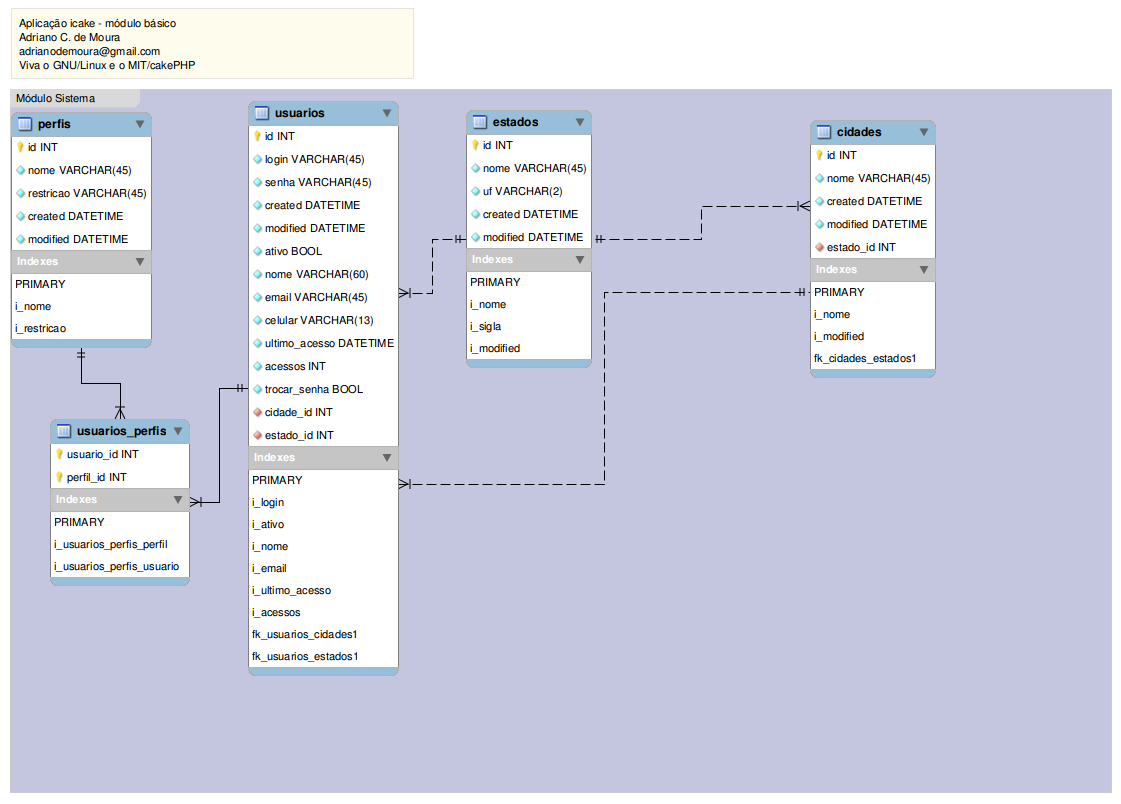
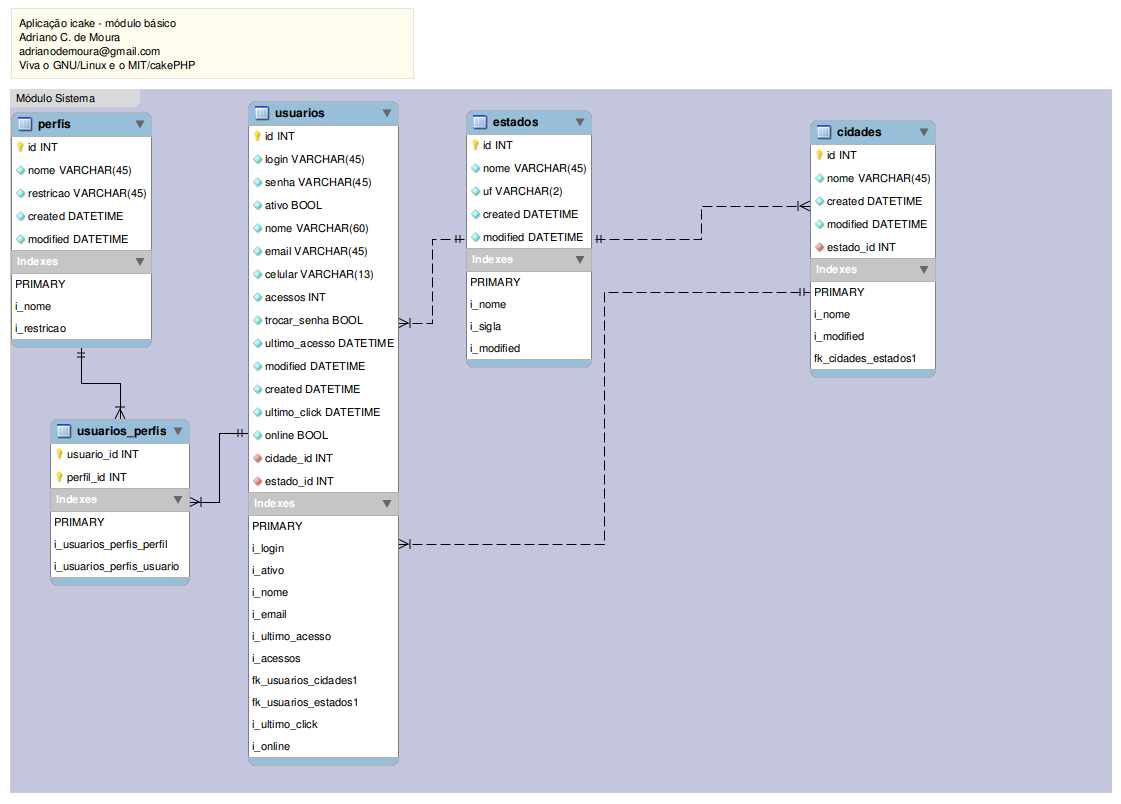
Incluindo funcionalidade para usuários online

Changed region(s): [[0.2186, 0.4353, 0.3747, 0.9639], [0.2186, 0.2488, 0.3434, 0.4042]]

diff --git a/Controller/UsuariosController.php b/Controller/UsuariosController.php
@@ -86,12 +86,19 @@ class UsuariosController extends AppController {
 	}
 
 	/**
+	 * Muda o status de online e 
 	 * Executa o logOut da sistema
 	 * 
 	 * @return void
 	 */
 	public function sair()
 	{
+		$this->Usuario->updateAll
+		(
+			array(
+				'Usuario.online'=>'0',
+				),array('Usuario.id'=>$this->Session->check('Usuario.id'))
+		);
 		$this->Session->destroy();
 		$this->Session->destroy();
 		$this->redirect('/');
@@ -146,11 +153,30 @@ class UsuariosController extends AppController {
 						die();
 					}
 				}
+				
+				// se está configurando os status do usuários e ele talvez esteja online, verifica pela data
+				$limite = Configure::read('ONLINE');
+				if ($limite && $dataUsuario[0]['Usuario']['online'])
+				{
+					$agora 					= mktime();
+					$data					= $dataUsuario[0]['Usuario']['ultimo_click'];
+					list($ano,$mes,$dia)	= explode("-",$data); // separamos as partes da data 
+					list($dia,$hora)		= explode(" ",$dia);
+					list($hora,$min,$seg)	= explode(":",$hora); // transformamos a data do banco em segundos usando a função mktime()
+					$ultimoClick			= mktime($hora,$min,$seg,$mes,$dia,$ano);
+					$diferenca				= $agora - $ultimoClick;
+					$minutos				= $diferenca/60;
+					$horas					= $diferenca/3600;
+					$dias					= $diferenca/86400;
+					
+					if ($minutos<=5) $msg = 'O Usuário '.$dataUsuario[0]['Usuario']['nome'].' já está logado !!!';
+				}
+				
 				if (isset($dataUsuario[0]['Usuario']['ativo']) && !$dataUsuario[0]['Usuario']['ativo'])
 				{
 					$msg = 'Usuário desativado !!!';
 				}
-				if (isset($dataUsuario[0]['Usuario']['ativo']) && $dataUsuario[0]['Usuario']['ativo'])
+				if (empty($msg) && isset($dataUsuario[0]['Usuario']['ativo']) && $dataUsuario[0]['Usuario']['ativo'])
 				{
 					// recuperando os dados do usuário e jogando na sessão
 					$arrUsu['id']  		= $dataUsuario[0]['Usuario']['id'];
@@ -197,7 +223,13 @@ class UsuariosController extends AppController {
 					$arrPer = array();
 
 					// atualizando dados do usuário
-					$this->Usuario->updateAll(array('Usuario.acessos'=>$arrUsu['acessos'],'Usuario.ultimo_acesso'=>"'".date('Y-m-d H:i:s')."'"),array('Usuario.id'=>$arrUsu['id']));
+					$this->Usuario->updateAll(
+					array(
+						'Usuario.acessos'=>$arrUsu['acessos'],
+						'Usuario.ultimo_acesso'=>"'".date('Y-m-d H:i:s')."'",
+						'Usuario.ultimo_click'=>"'".date('Y-m-d H:i:s')."'",
+						'Usuario.online'=>'1',
+						),array('Usuario.id'=>$arrUsu['id']));
 
 					// se tem que trocar a senha
 					if ($dataUsuario[0]['Usuario']['trocar_senha'])

diff --git a/Controller/AppController.php b/Controller/AppController.php
@@ -47,6 +47,7 @@ class AppController extends Controller {
 		// se está logado vamos configurar o menu
 		if ($this->Session->check('Usuario.id'))
 		{
+			// vamos configurar o menu e jogar na sessão
 			if (!$this->Session->check('menus'))
 			{
 				$menus 		= array();
@@ -67,6 +68,25 @@ class AppController extends Controller {
 				}
 				$this->Session->write('menus',$menus);
 			}
+			
+			// vamos atualizar o status de online, caso o core esteja configura para tal
+			$online = Configure::read('ONLINE');
+			if ($online)
+			{
+				$this->loadModel('Usuario');
+				$Usuario = new Usuario();
+				$Usuario->belongsTo = array();
+				$Usuario->hasAndBelongsToMany = array();
+				$Usuario->updateAll
+				(
+					array(
+						'Usuario.ultimo_click'=>"'".date('Y-m-d H:i:s')."'",
+						'Usuario.online'=>'1',
+						),array('Usuario.id'=>$this->Session->read('Usuario.id'))
+				);
+				unset($Usuario);
+			}
+			
 		}
 
 		// jogando as variáveis de ambiente na view

diff --git a/Controller/AjudaController.php b/Controller/AjudaController.php
@@ -32,6 +32,21 @@ class AjudaController extends AppController {
 		$pagina 		= 'pag';
 		$arrParams 		= func_get_args();
 		$pagina 		= $arrParams['0'];
+		if ($pagina=='online') $this->onLine();
 		$this->render($pagina);
+	}
+
+	/**
+	 * Exibe a tela com usuários online
+	 */
+	public function onLine()
+	{
+		$this->loadModel('Usuario');
+		$Usuario = new Usuario();
+		$Usuario->belongsTo = array();
+		$Usuario->hasAndBelongsToMany = array();
+		$online = Configure::read('ONLINE');
+		$usuarios = $Usuario->find('list',array('conditions'=>array('Usuario.online=true','Usuario.ultimo_click>DATE_SUB(NOW(), INTERVAL '.$online.' MINUTE)')));
+		$this->set(compact('usuarios'));
 	}
 }

diff --git a/Config/core.php b/Config/core.php
@@ -35,6 +35,11 @@ Configure::write('SIGLA','iCake');
 Configure::write('RESTRICOES',array('F'=>'Ferramentas', 'G'=>'Gravar', 'I'=>'Imprimir'));
 
 /**
+ * Tempo em que o usuário fica oline, se setar como zero, o sistema não vai atualizar o status.
+ */
+Configure::write('ONLINE','5');
+
+/**
  * CakePHP Debug Level:
  *
  * Production Mode:

diff --git a/Config/database.php b/Config/database.php
@@ -52,7 +52,7 @@ class DATABASE_CONFIG {
 	 */
 	public function __construct()
 	{
-		//$this->default = $this->mysql;
-		$this->default = $this->postgre;
+		$this->default = $this->mysql;
+		//$this->default = $this->postgre;
 	}
 }
